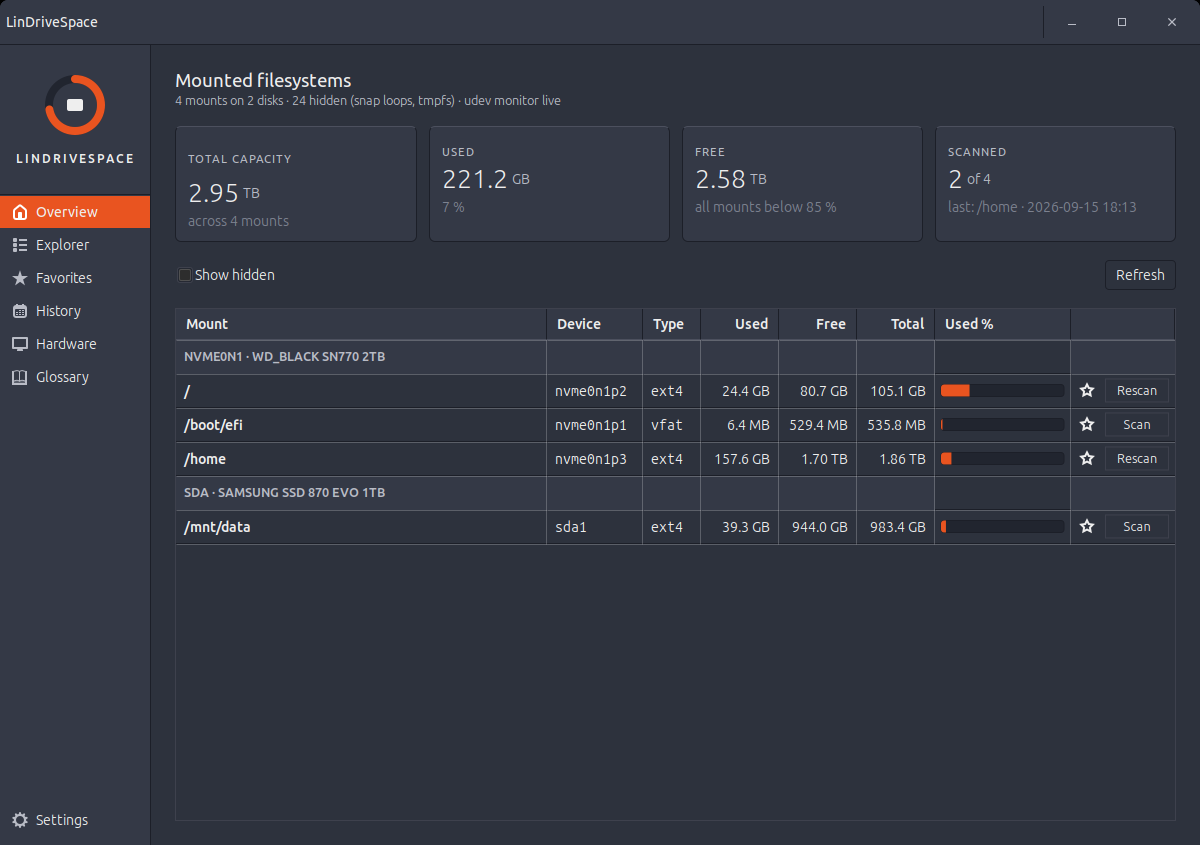
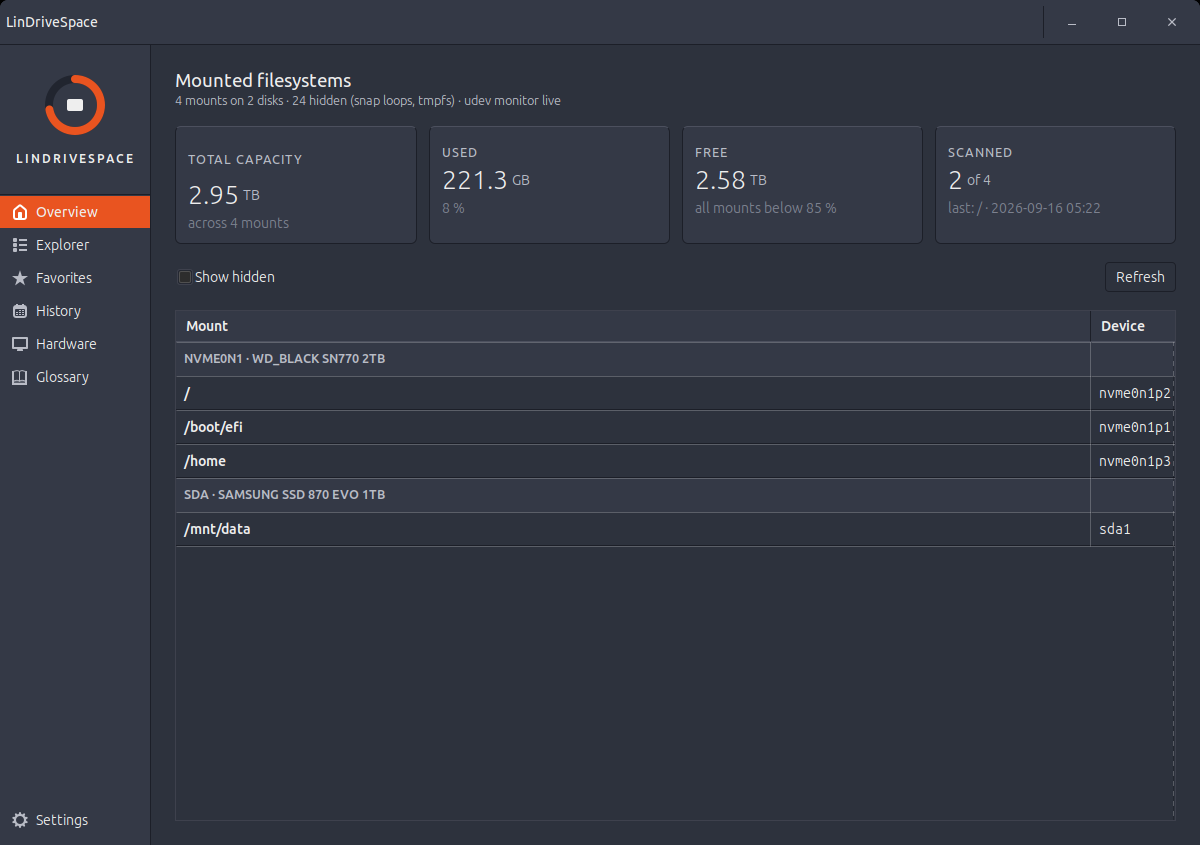
Card titles: 12 pt heading style on every card; KPI labels 9.5 pt; screenshots refreshed
Claude-Session: https://claude.ai/code/session_01Roqywc8y1DLV39FFJuyqcP

diff --git a/data/css/app.css b/data/css/app.css
@@ -119,7 +119,11 @@ headerbar.lds-header button:checked {
   letter-spacing: 1px;
   margin-top: 6px;
 }
-/* Card titles that read as headings (Hardware): a step below the 14 pt page title. */
+/* KPI tile labels: small caps stat labels, sized to stay legible. */
+.section-title.kpi-label {
+  font-size: 9.5pt;
+}
+/* Card titles read as headings (every PrefGroup card): a step below the 14 pt page title. */
 .section-title.large {
   color: @fg;
   font-size: 12pt;

diff --git a/src/lindrivespace/ui/widgets/kpi_tile.py b/src/lindrivespace/ui/widgets/kpi_tile.py
@@ -38,6 +38,7 @@ class KpiTile(Gtk.Box):
         self.label_widget = Gtk.Label(label=label.upper())
         self.label_widget.set_xalign(0.0)
         self.label_widget.get_style_context().add_class("section-title")
+        self.label_widget.get_style_context().add_class("kpi-label")
         self.pack_start(self.label_widget, False, False, 0)
 
         value_row = Gtk.Box(orientation=Gtk.Orientation.HORIZONTAL, spacing=4)

diff --git a/src/lindrivespace/ui/widgets/settings_rows.py b/src/lindrivespace/ui/widgets/settings_rows.py
@@ -83,6 +83,7 @@ class PrefGroup(Gtk.Box):
         title_label = Gtk.Label(label=title)
         title_label.set_xalign(0.0)
         title_label.get_style_context().add_class("section-title")
+        title_label.get_style_context().add_class("large")  # card titles read as headings
         header.pack_start(title_label, True, True, 0)
         self.copy_button: Gtk.Button | None = None
         self._header = header

diff --git a/src/lindrivespace/ui/pages/hardware.py b/src/lindrivespace/ui/pages/hardware.py
@@ -109,8 +109,6 @@ def _format_uptime(seconds: float) -> str:
 
 def _copyable(group: PrefGroup) -> PrefGroup:
     group.enable_copy()
-    # Hardware cards read as headings: a step below the page title (see .section-title.large).
-    group.title_widget.get_style_context().add_class("large")
     return group
 
 

diff --git a/changelog.md b/changelog.md
@@ -76,3 +76,4 @@
 | 2026-09-16T04:00:00 | Version 0.2.0 (user: packages updated): __init__, pyproject, AppStream release entry, README; .deb rebuilt (dist/lindrivespace_0.2.0_all.deb, launches from its extracted tree), user install refreshed; tag v0.2.0. |
 | 2026-09-16T04:30:00 | README (user): Analysis/treemap screenshot replaced with the user's capture of /home/user with the panel open (new Share % bars, treemap). |
 | 2026-09-16T05:10:00 | Hardware (user): card titles enlarged to 12 pt (.section-title.large, a step below the 14 pt page title); screenshot re-taken. Backlog §G: Flathub compliance assessment (SPDX id, app-id verification, manifest, /run/host root mapping, udev/lsblk fallbacks, scheduler, pkexec). |
+| 2026-09-16T05:40:00 | Card titles app-wide (user): every PrefGroup card title (Settings, History, Hardware) is now the 12 pt heading style; KPI tile labels raised to 9.5 pt small caps. Overview/History/Hardware/Settings screenshots re-taken. |
